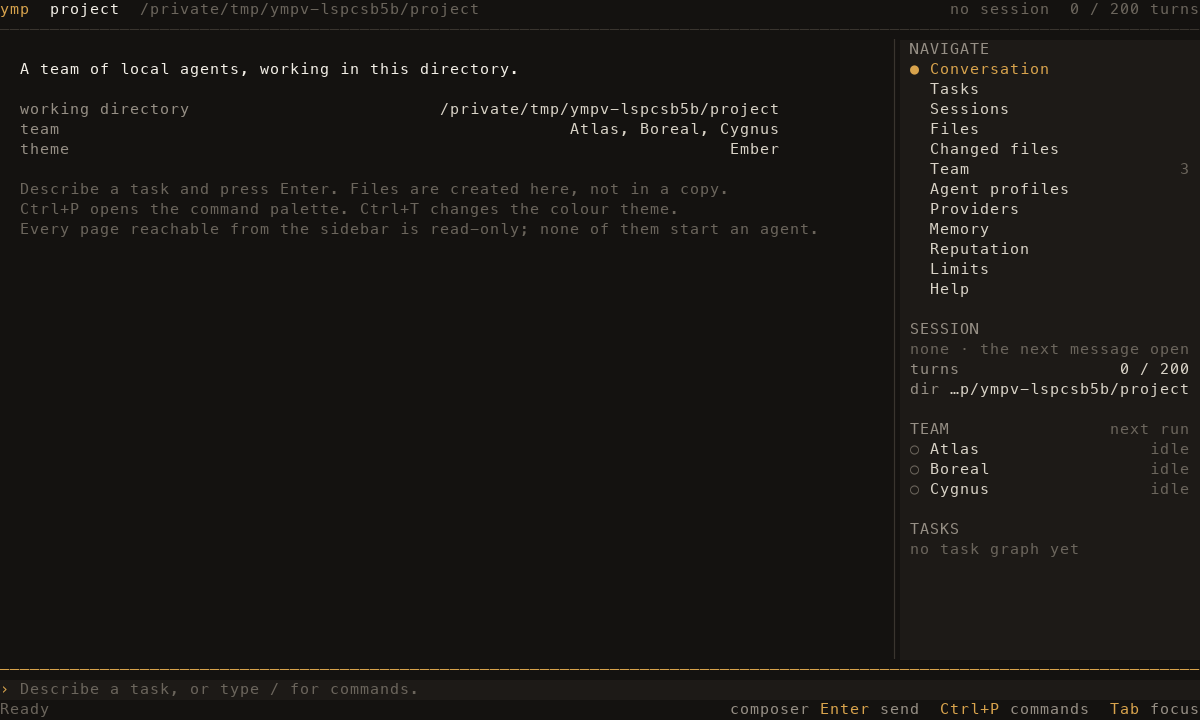
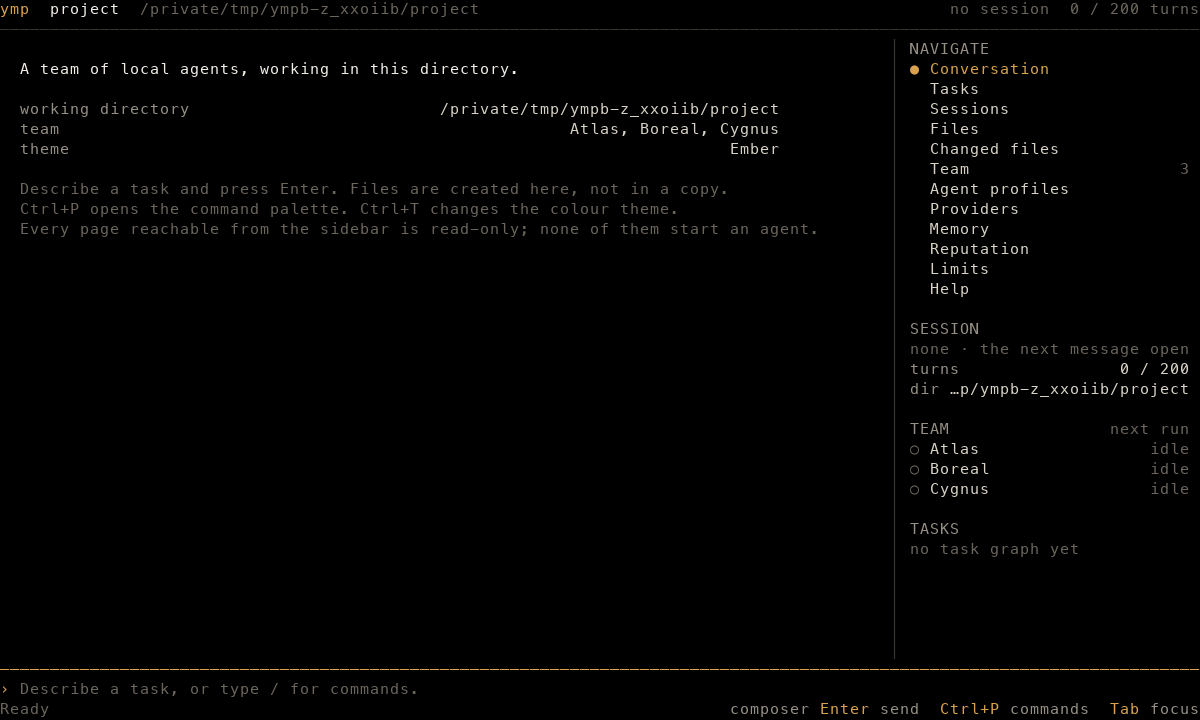
Use black backgrounds in Ember without changing text styles

diff --git a/ymp-rust/crates/ymp-tui/src/theme.rs b/ymp-rust/crates/ymp-tui/src/theme.rs
@@ -223,15 +223,15 @@ const fn rgb(value: u32) -> Color {
     )
 }
 
-/// Warm amber on near-black: the default ymp palette.
+/// Warm amber on black: the default ymp palette.
 pub const EMBER: Theme = Theme {
     id: "ember",
     name: "Ember",
-    summary: "Warm amber on near-black. The default ymp palette.",
+    summary: "Warm amber on black. The default ymp palette.",
     kind: ThemeKind::Dark,
-    bg: rgb(0x141210),
-    surface: rgb(0x1d1a17),
-    raised: rgb(0x2a2520),
+    bg: rgb(0x000000),
+    surface: rgb(0x000000),
+    raised: rgb(0x000000),
     rule: rgb(0x3a352f),
     text: rgb(0xf2eee6),
     body: rgb(0xd8d2c6),

diff --git a/ymp-docs/guides/interface.md b/ymp-docs/guides/interface.md
@@ -117,7 +117,7 @@ directory and restored at the next start.
 
 | Theme | Kind | Description |
 | --- | --- | --- |
-| `ember` | dark | Warm amber on near-black. The default. |
+| `ember` | dark | Warm amber on black. The default. |
 | `slate` | dark | Cool blue on deep slate, low saturation. |
 | `paper` | light | Dark ink on warm paper. |
 | `contrast` | high contrast | Maximum separation on pure black. |
